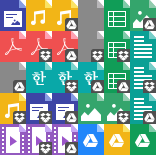
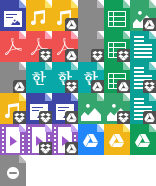
feat(center): file unshare 시 view 변경 - css 수정사항 반영

diff --git a/client/app/center/center.css b/client/app/center/center.css
@@ -271,6 +271,25 @@ article {
   font-weight: 700;
 }
 
+/* issue : JND-3207
+ * fix : add unshared file meta class
+ */
+.msg-file.unshared .msg-file-meta {
+	opacity: 0.3 !important;
+}
+.msg-file.unshared a:hover {
+	cursor: not-allowed !important;
+}
+.msg-file.unshared .msg-file-meta-down {
+	display: none;
+}
+.msg-file.unshared .msg-file-meta__title {
+	text-decoration: line-through;
+}
+.msg-file.unshared .fileicon {
+	background-position: 0 -155px;
+}
+
 /*
 issue : JND-974
 fix : add margin-bottom: 10px;

diff --git a/client/app/main.css b/client/app/main.css
@@ -653,6 +653,9 @@ input[type="button"] {
 .fileicon-presentation-google-drive {
   background-position: -104px -124px;
 }
+.fileicon-unshared {
+  background-position: 0 -155px;
+}
 
 .icon-more-member {
   background: url('../assets/images/icon_more_member.png') no-repeat;
